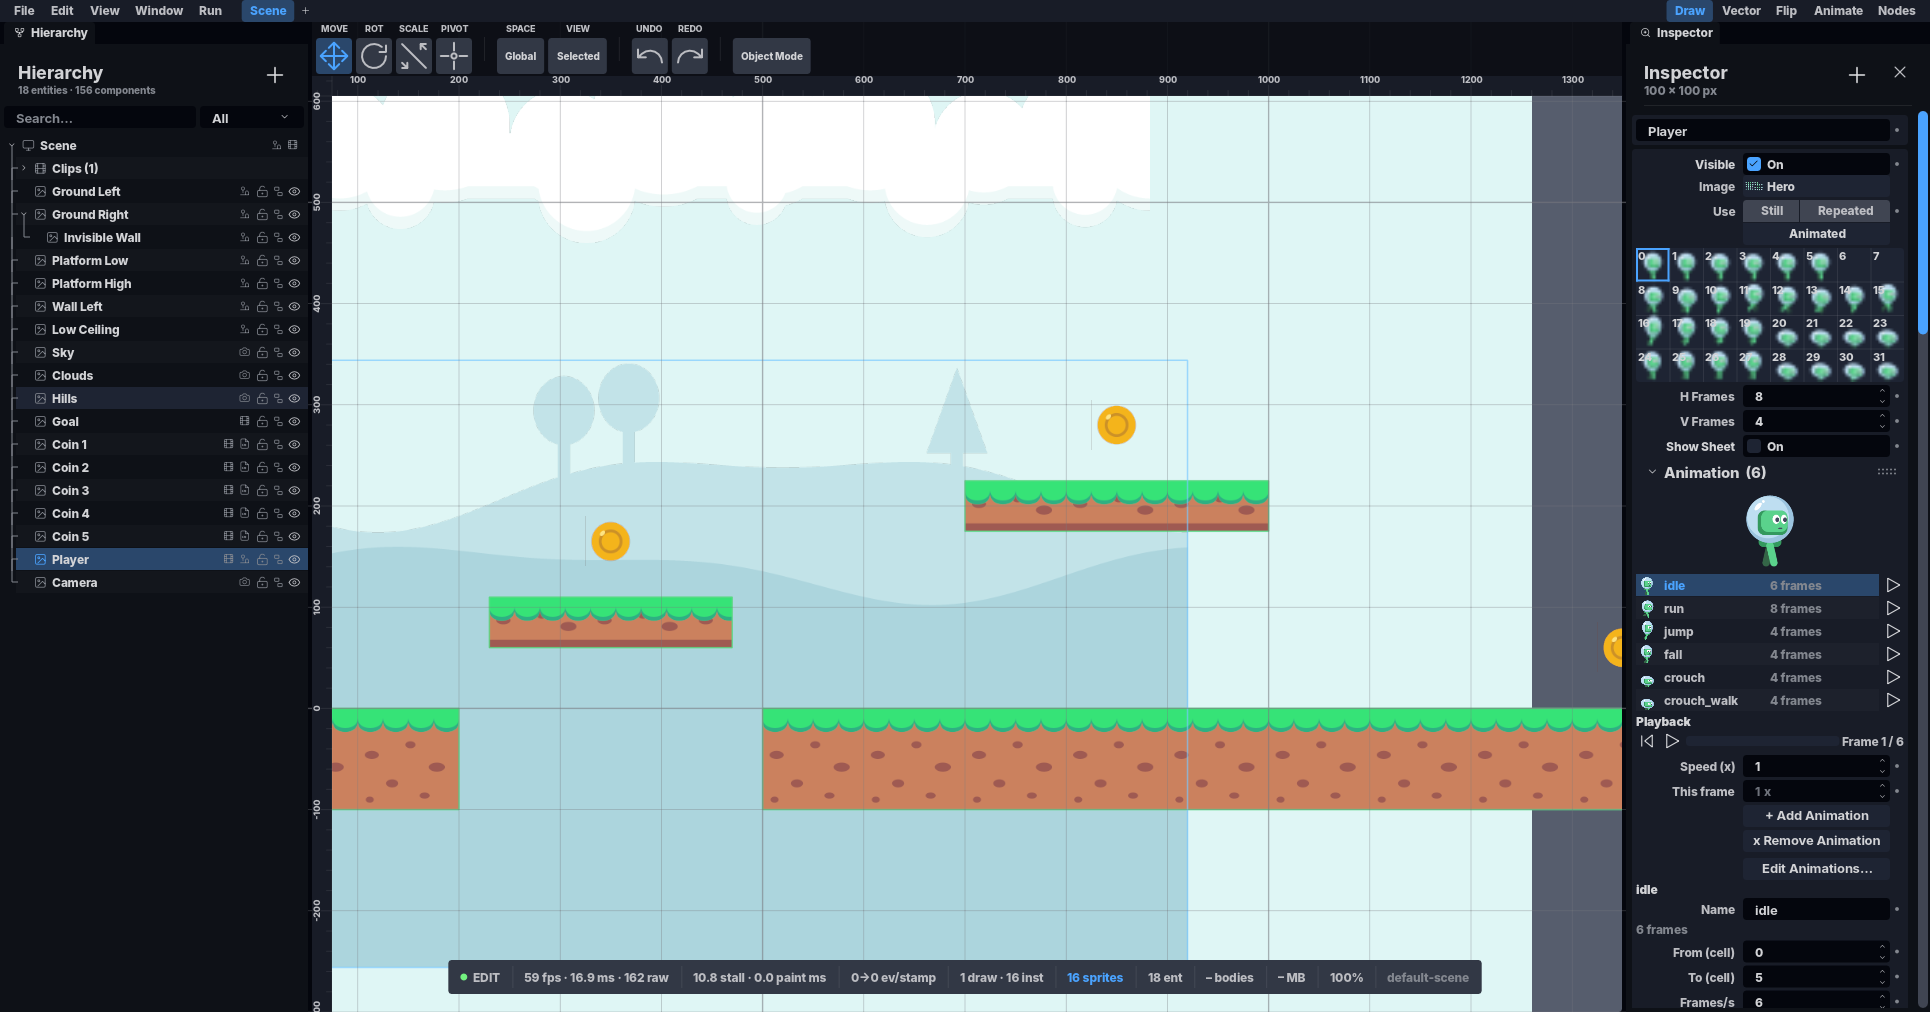
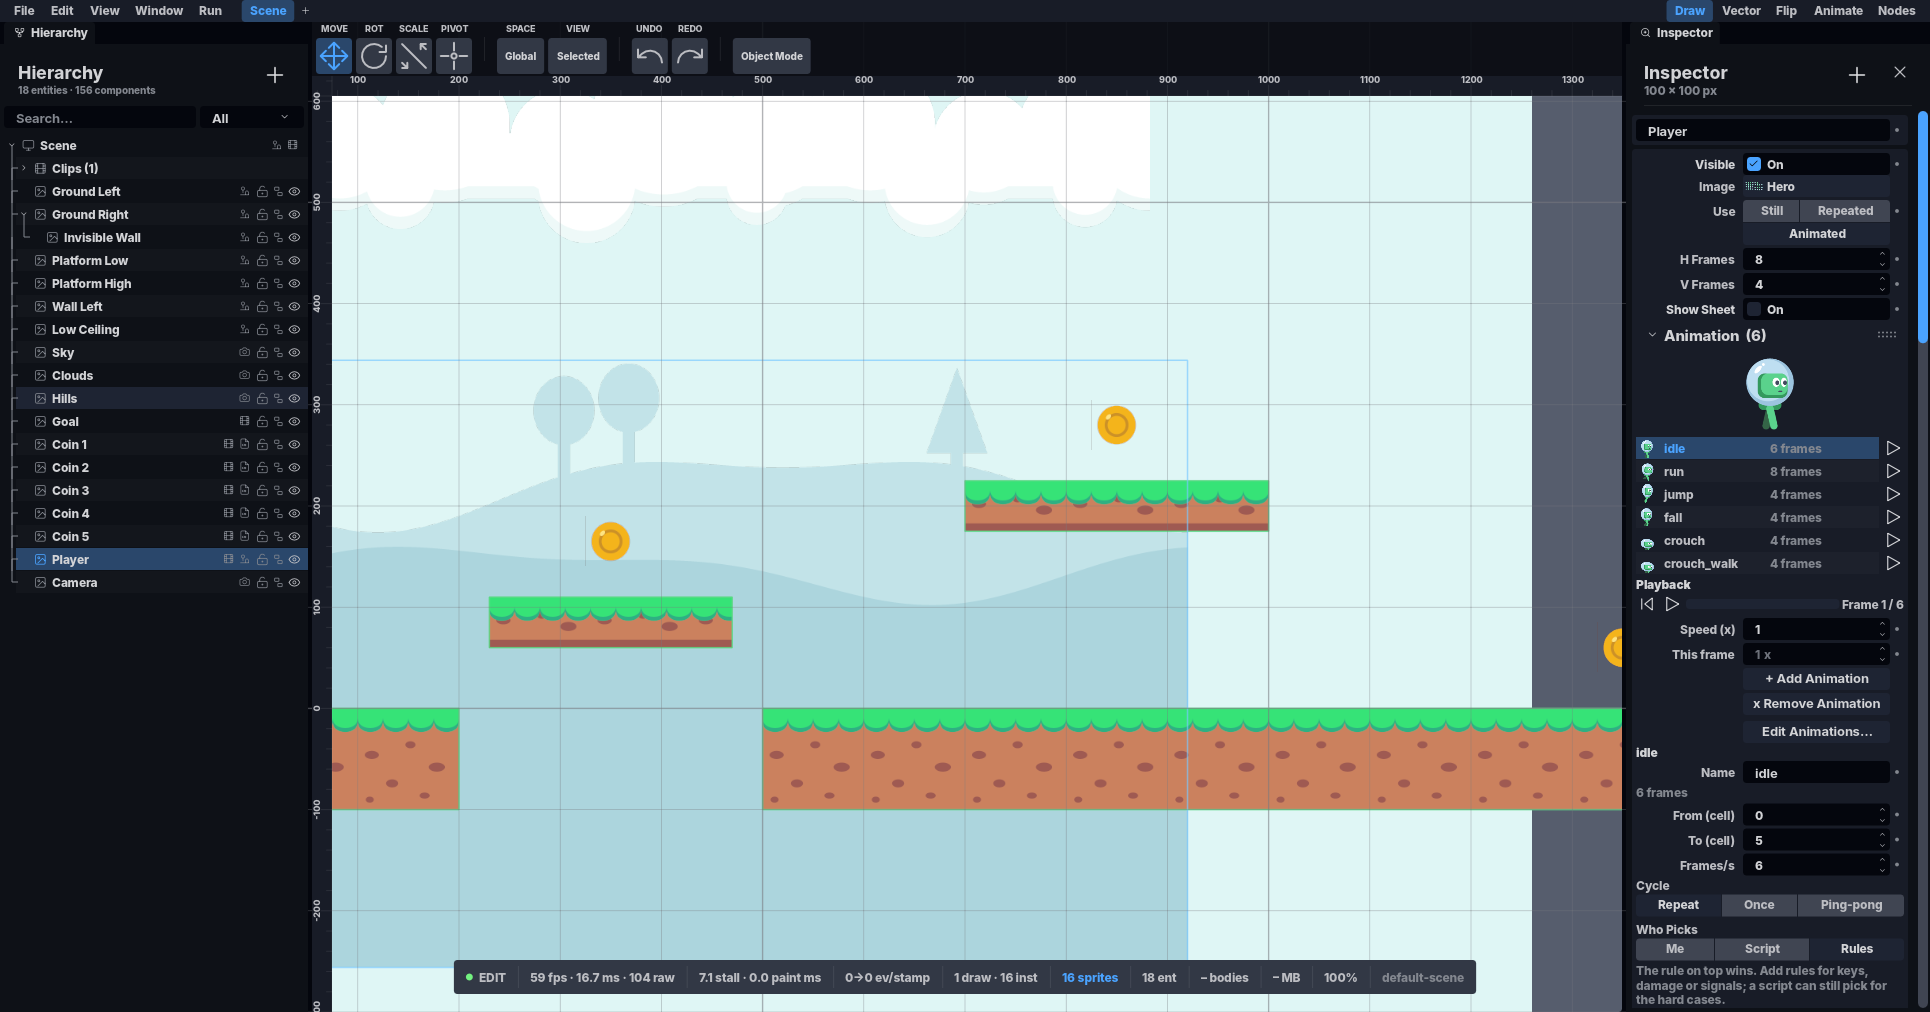
fix(GEF 15, dono 27/10): a animada não mostra a folha com as células — só H/V Frames e a Animation
Removido paint_sheet_thumb (zero chamadores depois). Foto uso_animada refeita.

Changed region(s): [[0.8394, 0.2451, 1.0, 1.0], [0.2176, 0.9496, 0.6528, 0.9802], [0.6839, 0.9496, 0.7772, 0.9802]]

diff --git a/crates/ph2d-panel-inspector/src/sections/sheet_thumb.rs b/crates/ph2d-panel-inspector/src/sections/sheet_thumb.rs
@@ -1,108 +1,9 @@
-//! ⭐ **A imagem sob o seletor «Use»** ([plano GEF 15](../../../../docs/GameEngineFuncional/15_uso_da_imagem_a_vista_plano.md)
-//! D2): animada — a folha inteira com a grelha por cima e as células numeradas (o corte vê-se); parada — só
-//! «Frame ‹ n / N ›» (smoke do dono 27/10: a grelha numa parada era ruído). A folha é a da ranhura Image
-//! ([`crate::slot_image`]), com a mesma textura estável.
+//! ⭐ **O quadro de uma parada sob o seletor «Use»** ([plano GEF 15](../../../../docs/GameEngineFuncional/15_uso_da_imagem_a_vista_plano.md)
+//! D2): só «Frame ‹ n / N ›». Nem a parada nem a animada mostram a folha com as células (dono 27/10: «em
+//! Animated exibir as imagens de quadros não é necessário») — o corte lê-se em H/V Frames.
 
 use super::*;
 use ph2d_i18n::{tr, tr_with};
-use ph2d_vector::ImageQuality;
-
-/// Uma célula mais baixa que isto (em px de ecrã) não leva número: ele não caberia.
-fn number_fits(cell_h: f32) -> bool {
-    cell_h >= TypeToken::Xs.px() + Spacing::Xxs.px()
-}
-
-/// A área onde cabe uma imagem `iw × ih` na coluna `w`, centrada, nunca mais alta que larga.
-fn fit(x: f32, y: f32, w: f32, iw: f32, ih: f32) -> Rect {
-    let k = (w / iw).min(w / ih);
-    let (dw, dh) = (iw * k, ih * k);
-    Rect::new(x + (w - dw) * 0.5, y, dw, dh)
-}
-
-/// Pinta a folha de `info` com a grelha `hframes × vframes` e a célula `info.frame` marcada. Devolve o `y`
-/// seguinte (o mesmo se a sprite não tem imagem da biblioteca).
-#[allow(clippy::too_many_arguments)]
-pub(crate) fn paint_sheet_thumb(
-    scene: &mut VectorScene,
-    text_system: &mut TextSystem,
-    theme: Theme,
-    x: f32,
-    w: f32,
-    y: f32,
-    info: &InspectorSpriteInfo,
-) -> f32 {
-    let Some(img) = crate::slot_image::current_slot_image(info.entity_bits) else {
-        return y;
-    };
-    let Some(tex) = crate::slot_image::stable(&img) else {
-        return y;
-    };
-    let area = fit(x, y, w, img.w.max(1) as f32, img.h.max(1) as f32);
-    let radius = ph2d_editor_core::paint::frame_radius(theme, Radius::Sm.px());
-    fill_rounded_rect(scene, area, radius, resolve(ColorToken::Bg2, theme));
-    let (x0, y0) = (f64::from(area.x), f64::from(area.y));
-    scene.draw_stable_image(
-        &tex,
-        (x0, y0, x0 + f64::from(area.w), y0 + f64::from(area.h)),
-        ImageQuality::Medium,
-    );
-    let (cols, rows) = (info.hframes.max(1), info.vframes.max(1));
-    let (cw, ch) = (area.w / cols as f32, area.h / rows as f32);
-    let line = resolve(ColorToken::Border, theme);
-    for c in 1..cols {
-        let lx = f64::from(area.x + cw * c as f32);
-        scene.fill_rect(
-            ph2d_vector::Rect::new(
-                lx,
-                y0,
-                lx + f64::from(SLOT_BORDER_PX),
-                y0 + f64::from(area.h),
-            ),
-            line,
-        );
-    }
-    for r in 1..rows {
-        let ly = f64::from(area.y + ch * r as f32);
-        scene.fill_rect(
-            ph2d_vector::Rect::new(
-                x0,
-                ly,
-                x0 + f64::from(area.w),
-                ly + f64::from(SLOT_BORDER_PX),
-            ),
-            line,
-        );
-    }
-    let cell = |i: u32| {
-        Rect::new(
-            area.x + cw * (i % cols) as f32,
-            area.y + ch * (i / cols) as f32,
-            cw,
-            ch,
-        )
-    };
-    if number_fits(ch) && cols * rows > 1 {
-        let pad = Spacing::Xxs.px();
-        for i in 0..cols * rows {
-            let c = cell(i);
-            paint_text(
-                text_system,
-                scene,
-                // A célula como os campos «From/To (cell)» do mesmo cartão a escrevem (a partir de 0).
-                &i.to_string(),
-                c.x + pad,
-                c.y + pad,
-                TypeToken::Xs.px(),
-                (c.w - pad).max(0.0),
-                resolve(ColorToken::Text1, theme),
-            );
-        }
-    }
-    if cols * rows > 1 && info.frame < cols * rows {
-        outline(scene, cell(info.frame), resolve(ColorToken::Accent, theme));
-    }
-    area.y + area.h + ph2d_tokens::control_gap_px()
-}
 
 /// ⭐ **Uma parada numa folha: só «Frame ‹ n / N ›»** (smoke do dono 27/10, «simplificar ao máximo»): o quadro
 /// vê-se no ecrã e na ranhura Image — nem grelha, nem uma segunda imagem. Devolve o `y` seguinte.
@@ -165,19 +66,4 @@ pub(crate) fn paint_still_frame(
         resolve(ColorToken::Text1, theme),
     );
     y + ROW_H_PX + ph2d_tokens::control_gap_px()
-}
-
-/// A moldura do quadro mostrado — quatro tiras, em todos os temas (a moldura de cartão é plana no moderno).
-fn outline(scene: &mut VectorScene, r: Rect, color: ph2d_vector::Color) {
-    let t = f64::from(SLOT_BORDER_PX + SLOT_BORDER_PX);
-    let (x0, y0) = (f64::from(r.x), f64::from(r.y));
-    let (x1, y1) = (x0 + f64::from(r.w), y0 + f64::from(r.h));
-    for (a, b, c, d) in [
-        (x0, y0, x1, y0 + t),
-        (x0, y1 - t, x1, y1),
-        (x0, y0, x0 + t, y1),
-        (x1 - t, y0, x1, y1),
-    ] {
-        scene.fill_rect(ph2d_vector::Rect::new(a, b, c, d), color);
-    }
 }

diff --git a/crates/ph2d-panel-inspector/src/sections/image_use_rows.rs b/crates/ph2d-panel-inspector/src/sections/image_use_rows.rs
@@ -1,7 +1,7 @@
 //! ⭐ **O uso da imagem à vista** ([plano GEF 15](../../../../docs/GameEngineFuncional/15_uso_da_imagem_a_vista_plano.md)
 //! D1/D2): logo abaixo da linha Image, o seletor «Use» (Still · Repeated · Animated) e, por baixo, só os campos do
-//! uso escolhido — parada: o quadro no ecrã e «‹ n / N ›»; repetida: Width/Height; animada: a folha com o corte e
-//! a secção Animation ali mesmo.
+//! uso escolhido — parada: o quadro no ecrã e «‹ n / N ›»; repetida: Width/Height; animada: H/V Frames e a
+//! secção Animation ali mesmo (sem a folha com as células, dono 27/10).
 
 use super::*;
 use ph2d_editor_core::screens::hero::InspectorAnimInfo;
@@ -81,7 +81,6 @@ pub(crate) fn paint_image_use(
             paint_size_rows(scene, text_system, theme, hit_index, store, x, w, y, info)
         }
         InspectorImageUse::Animated => {
-            y = super::sheet_thumb::paint_sheet_thumb(scene, text_system, theme, x, w, y, info);
             let sec = super::sprite_pose::seccao(text_system);
             y = super::sprite_pose::paint_sheet_grid_rows(
                 scene,
